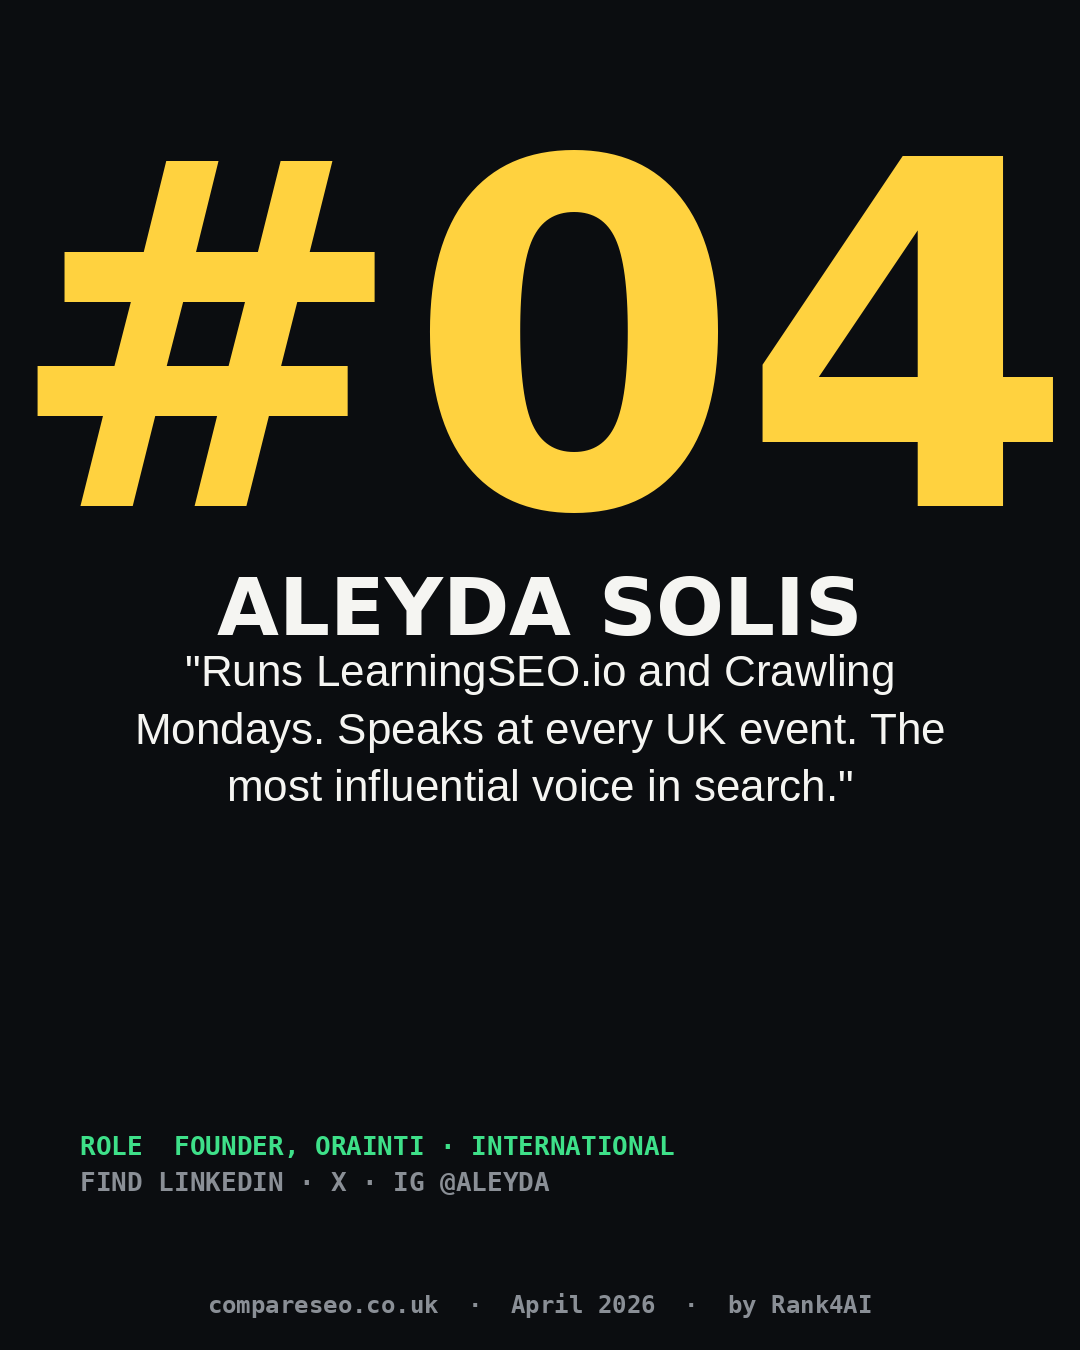
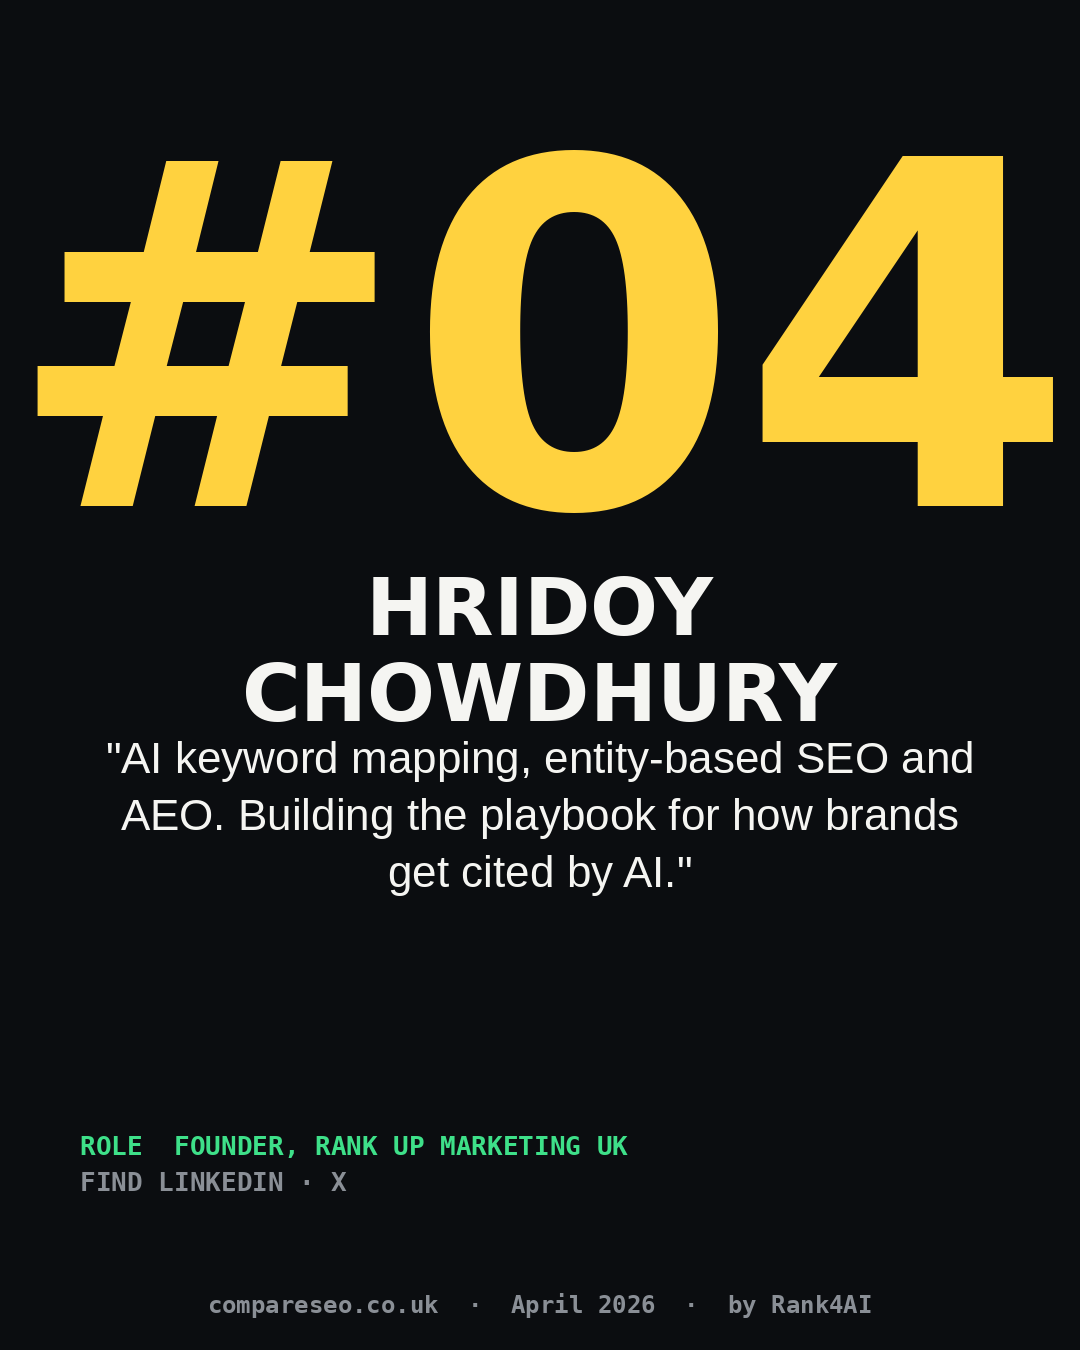
Reorder AI Search Voices: add Adam Parker, defensible ranking
Reordered for credibility:
1. Mark Williams-Cook (AlsoAsked, Candour)
2. Dixon Jones (InLinks)
3. Lukasz Zelezny (SEO.London)
4. Hridoy Chowdhury (Rank Up Marketing)
5. Adam Parker (Rank4AI / compareSEO)
6. Luca Tagliaferro (AEO consultant)
7. Nic Dunn (Charle)
8. Gerry White (veteran)
9. Aleyda Solis (international, too big to omit)
10. Lily Ray (international, too big to omit)

Adam at #5 is the sweet spot — credible, not self-serving.
Dropped Ziggy Shtrosberg to make room.

https://claude.ai/code/session_017SQJYyzU3oYw5cfCbxh1FD

Changed region(s): [[0.1222, 0.4044, 0.8861, 0.6844], [0.3056, 0.84, 0.6111, 0.9022]]

diff --git a/instagram/output/top-10-ai-search-voices-uk/tag-list.md b/instagram/output/top-10-ai-search-voices-uk/tag-list.md
@@ -7,13 +7,13 @@ Before posting:
 
 | Pos | Agency | Handle | Followed? | Tagged? |
 |----:|--------|--------|:---------:|:-------:|
-| 1 | Hridoy Chowdhury | _(find me)_ | [ ] | [ ] |
-| 2 | Mark Williams-Cook | _(find me)_ | [ ] | [ ] |
-| 3 | Dixon Jones | _(find me)_ | [ ] | [ ] |
-| 4 | Aleyda Solis | @aleyda | [ ] | [ ] |
-| 5 | Lukasz Zelezny | _(find me)_ | [ ] | [ ] |
+| 1 | Mark Williams-Cook | _(find me)_ | [ ] | [ ] |
+| 2 | Dixon Jones | _(find me)_ | [ ] | [ ] |
+| 3 | Lukasz Zelezny | _(find me)_ | [ ] | [ ] |
+| 4 | Hridoy Chowdhury | _(find me)_ | [ ] | [ ] |
+| 5 | Adam Parker | _(find me)_ | [ ] | [ ] |
 | 6 | Luca Tagliaferro | _(find me)_ | [ ] | [ ] |
-| 7 | Lily Ray | _(find me)_ | [ ] | [ ] |
-| 8 | Nic Dunn | _(find me)_ | [ ] | [ ] |
-| 9 | Gerry White | _(find me)_ | [ ] | [ ] |
-| 10 | Ziggy Shtrosberg | _(find me)_ | [ ] | [ ] |
+| 7 | Nic Dunn | _(find me)_ | [ ] | [ ] |
+| 8 | Gerry White | _(find me)_ | [ ] | [ ] |
+| 9 | Aleyda Solis | @aleyda | [ ] | [ ] |
+| 10 | Lily Ray | _(find me)_ | [ ] | [ ] |
